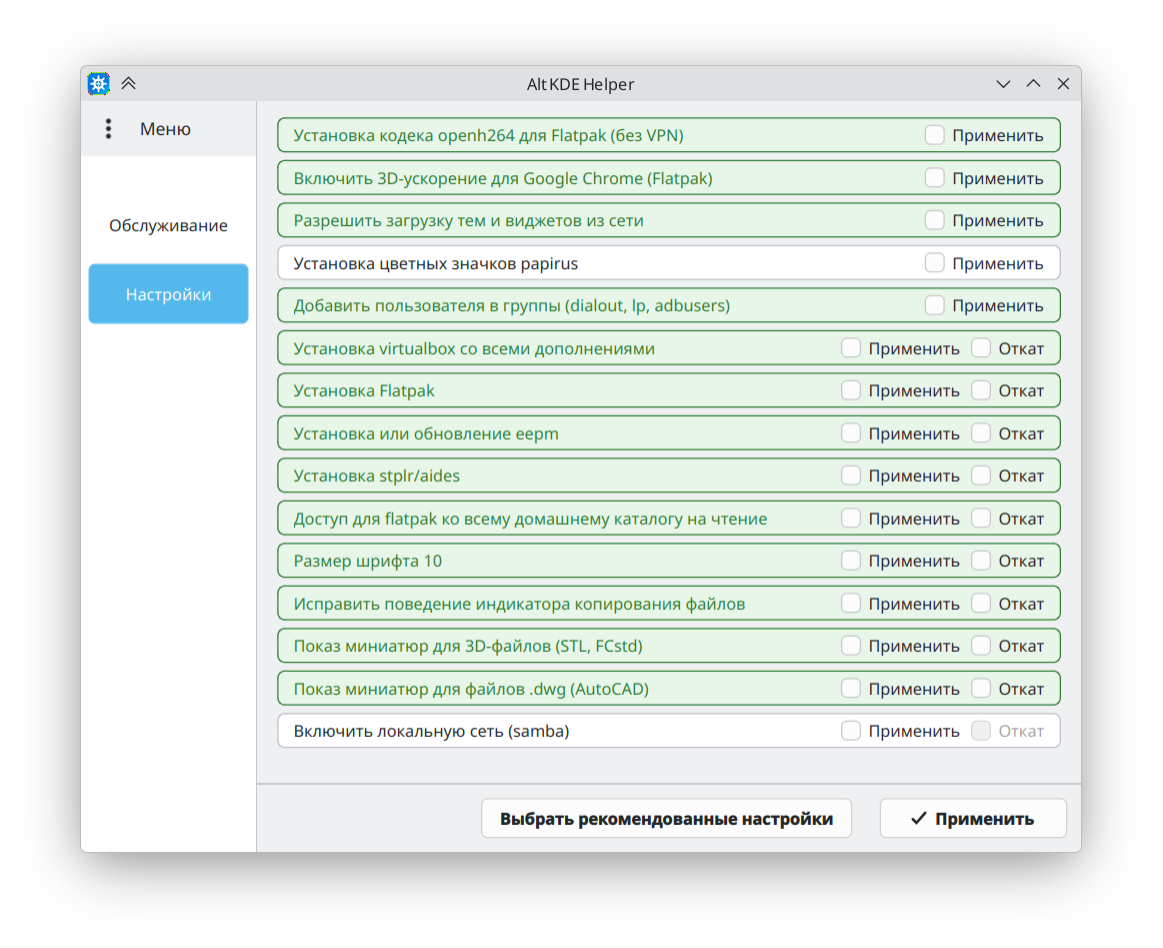
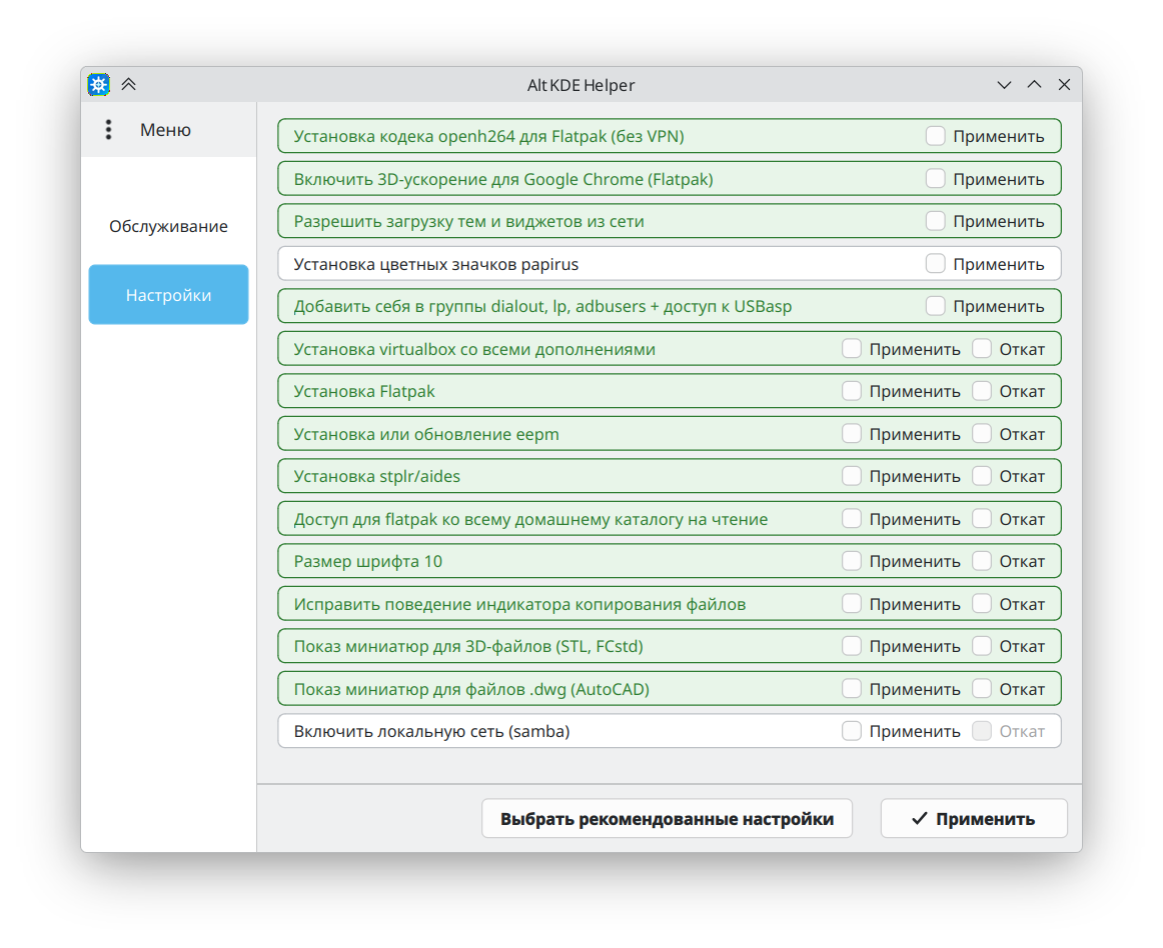
Add files via upload

diff --git a/usr/share/alt-kde-helper/help.html b/usr/share/alt-kde-helper/help.html
@@ -55,6 +55,8 @@ pre {
 <li>установка доп. пакетов для получения максимально настроенной системы, особенно актуально для StarterKit и Regular. Редактировать список пакетов можно в меню, в левом верхнем углу приложения</li>
 <li>включение отключенных по умолчанию опций (например, загрузку виджетов и тем)</li>
 <li>получение sudo и прав на его использование</li>
+<li>добавление пользователя в группы lp, dialout, adbusers, настройка прав для USBasp устройств</li>
+<li>установка Virtualbox со всеми дополнениями</li>
 <li>загрузка кодека openh264 без применения VPN</li>
 <li>выбор зеркал репозитория (есть выбор самого быстрого по результатам теста). Автоматически определяется p11, p12  или Sisyphus</li>
 <li>включение создания миниатюр для значков файлов 3D-моделей, FreeCAD и AutoCAD</li>

diff --git a/usr/share/alt-kde-helper/gui.py b/usr/share/alt-kde-helper/gui.py
@@ -1345,8 +1345,8 @@ class MainWindow(QMainWindow):
 
 
         cards.append(SimpleActionCard(
-            "Добавить пользователя в группы (dialout, lp, adbusers)",
-            "Добавляет текущего пользователя в группы \nдля доступа к USB-устройствам",
+            "Добавить себя в группы dialout, lp, adbusers + доступ к USBasp",
+            "Добавляет текущего пользователя в группы \nдля доступа к USB и правила udev для USBasp устройств",
             "08_add_groups_action.sh"
         ))
 

diff --git a/README.md b/README.md
@@ -10,6 +10,8 @@
 - установка доп. пакетов для получения максимально настроенной системы, особенно актуально для StarterKit и Regular. Редактировать список пакетов можно в меню, в левом верхнем углу приложения
 - включение отключенных по умолчанию опций (например, загрузку виджетов и тем)
 - получение sudo и прав на его использование
+- добавление пользователя в группы lp, dialout, adbusers, настройка прав для USBasp устройств
+- установка VirtualBox со всеми дополнениями
 - загрузка кодека openh264 без применения VPN
 - выбор зеркал репозитория (есть выбор самого быстрого по результатам теста). Автоматически определяется p11, p12  или Sisyphus
 - включение создания миниатюр для значков файлов 3D-моделей, FreeCAD и AutoCAD
